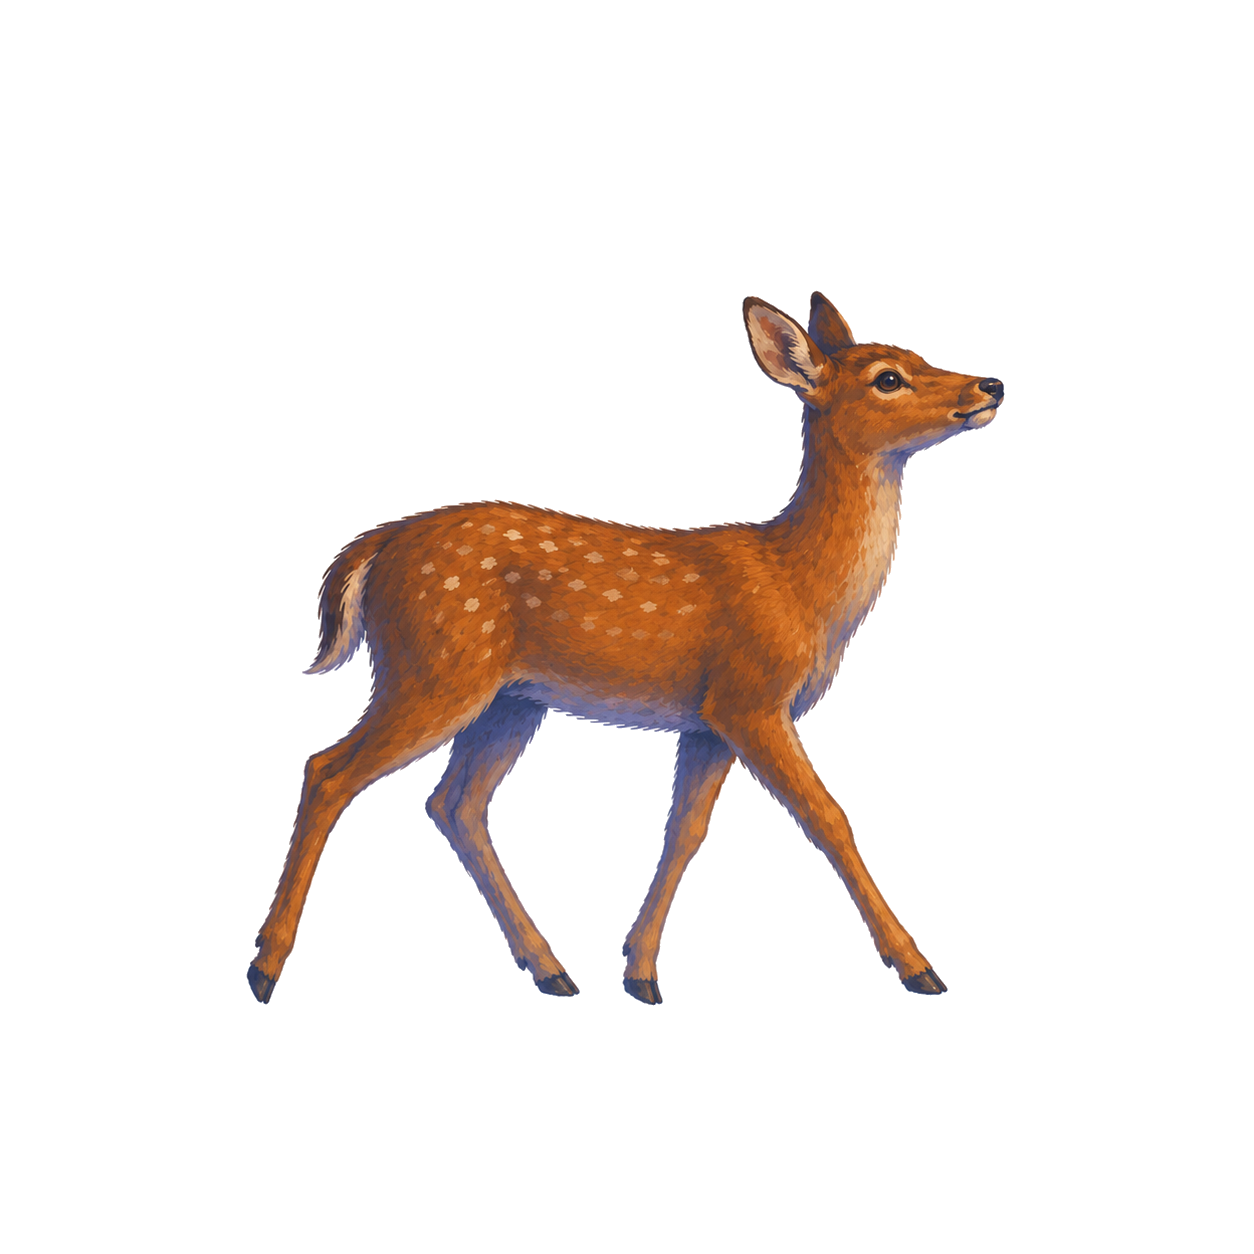
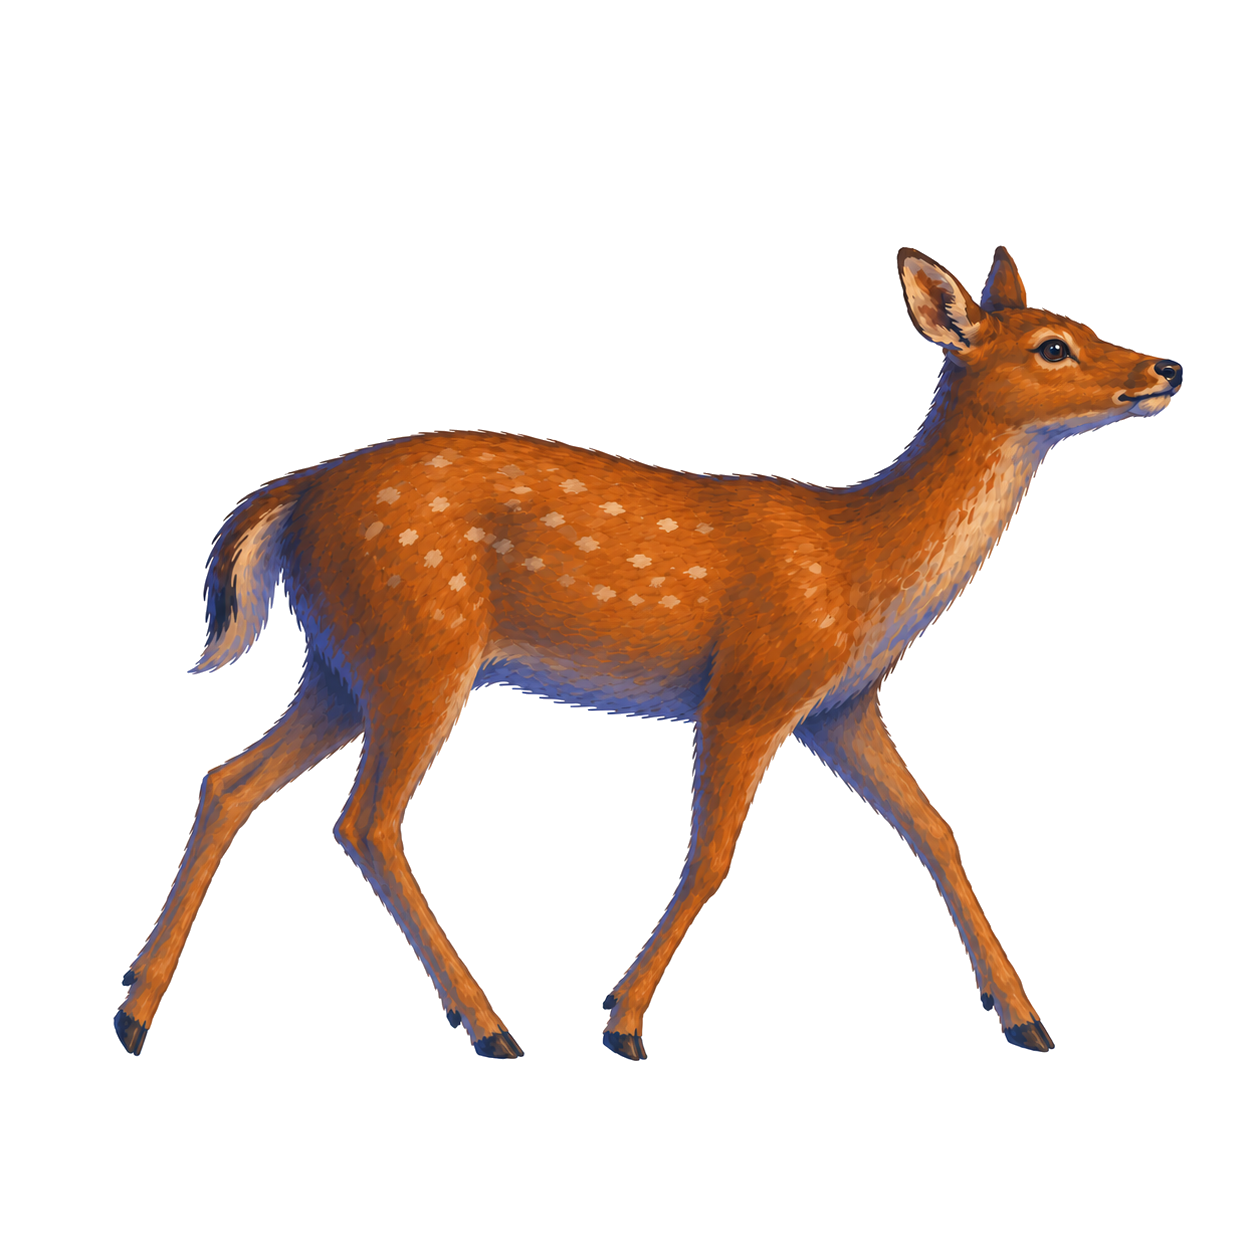
Replace deer walk sprites with 2-frame set; fix sizing, positioning, and breath puffs
- Swap in original images 2 and 5 as the two walk frames (transparent bg via flood-fill)
- Halve deer size in landscape orientation (S*0.14 vs S*0.28)
- Lower ground anchor slightly below door threshold (+ this.S * 0.08)
- Fix breath puff origin to match new sprite mouth position
- Freeze on current walk frame when pausing (no separate pause.png needed)

Changed region(s): [[0.0933, 0.1866, 0.9641, 0.8708]]

diff --git a/app.js b/app.js
@@ -64,7 +64,7 @@ const deerSprites = {};
 async function preloadDeerSprites() {
   const base = 'assets/scenes/tiny-cabin/deer/';
   await Promise.all(
-    ['walk-0', 'walk-1', 'walk-2', 'walk-3', 'pause'].map(async n => {
+    ['walk-0', 'walk-1'].map(async n => {
       deerSprites[n] = await loadImage(`${base}${n}.png`);
     })
   );
@@ -607,7 +607,7 @@ class CabinEventsOverlay {
     const gd = p2c(...(L ? [821,  750] : [477, 1322]));
     const po = p2c(...(L ? [568,  849] : [333, 1494]));
 
-    this.gy        = gd.y;
+    this.gy        = gd.y + this.S * 0.08;
     this.chx       = ch.x;
     this.chy       = ch.y;
     this.roofPeakX = pk.x;
@@ -1000,7 +1000,7 @@ class CabinEventsOverlay {
         const p       = et / dur;
         const ps      = 0.40, pe = 0.58;
         const xp      = p < ps ? p / ps * 0.5 : p < pe ? 0.5 : 0.5 + (p - pe) / (1 - pe) * 0.5;
-        const sz      = S * 0.28;
+        const sz      = S * (W > H ? 0.14 : 0.28);
         const margin  = sz * 1.5;
         const startX  = ev.dir > 0 ? -margin : W + margin;
         const endX    = ev.dir > 0 ? W + margin : -margin;
@@ -1008,8 +1008,9 @@ class CabinEventsOverlay {
         const pausing = p >= ps && p < pe;
         const fa      = p < 0.07 ? p / 0.07 : p > 0.93 ? (1 - p) / 0.07 : 1;
 
-        const frameIdx = Math.floor(et * (4.6 / (Math.PI * 2)) * 4) % 4;
-        const frame    = pausing ? deerSprites['pause'] : deerSprites[`walk-${frameIdx}`];
+        const walkTime = pausing ? ps * dur : et;
+        const frameIdx = Math.floor(walkTime * (4.6 / (Math.PI * 2)) * 2) % 2;
+        const frame    = deerSprites[`walk-${frameIdx}`];
         if (frame) {
           // drawH tuned so sprite deer ≈ same apparent height as procedural deer
           const drawH  = sz * 1.2;
@@ -1029,9 +1030,9 @@ class CabinEventsOverlay {
           if (pausing) {
             const bAge  = et - ps * dur;
             const bFade = Math.min(1, bAge / 0.55);
-            // nose offset from foot anchor in sprite coords (pause frame, head raised)
-            const noseX = drawW * 0.12;
-            const noseY = -drawH * 0.79;
+            // nose offset from foot anchor in sprite coords
+            const noseX = drawW * 0.38;
+            const noseY = -drawH * 0.62;
             const breathAngle = -0.35;
             for (let i = 0; i < 3; i++) {
               const bp = ((t * .62 + i * .42) % 1.5) * bFade;